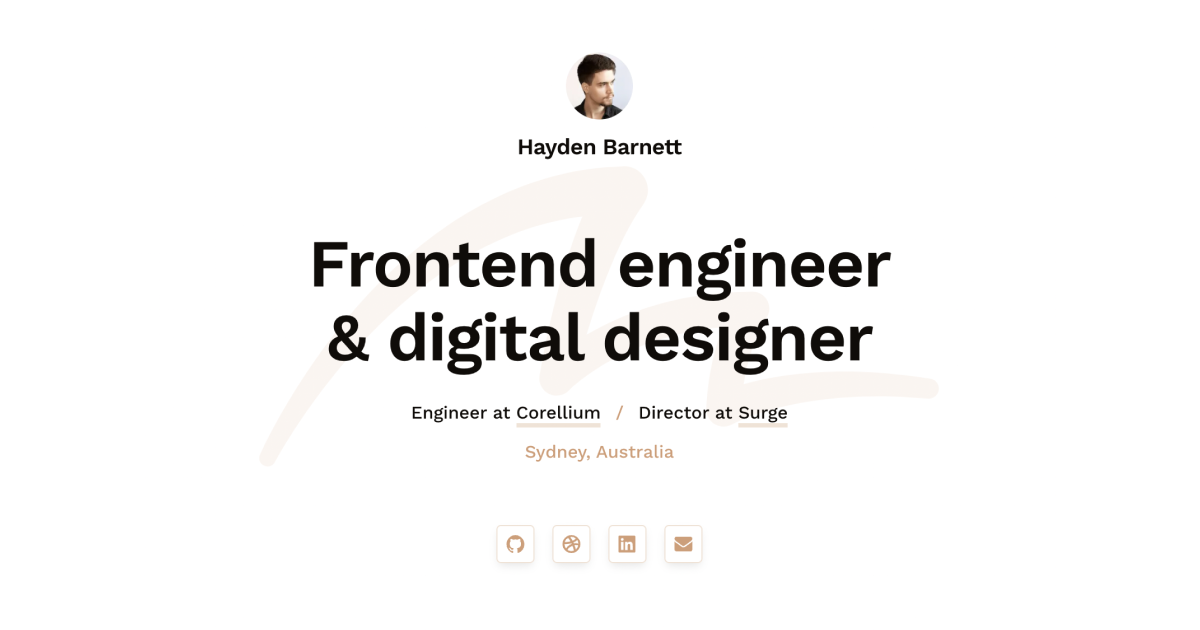
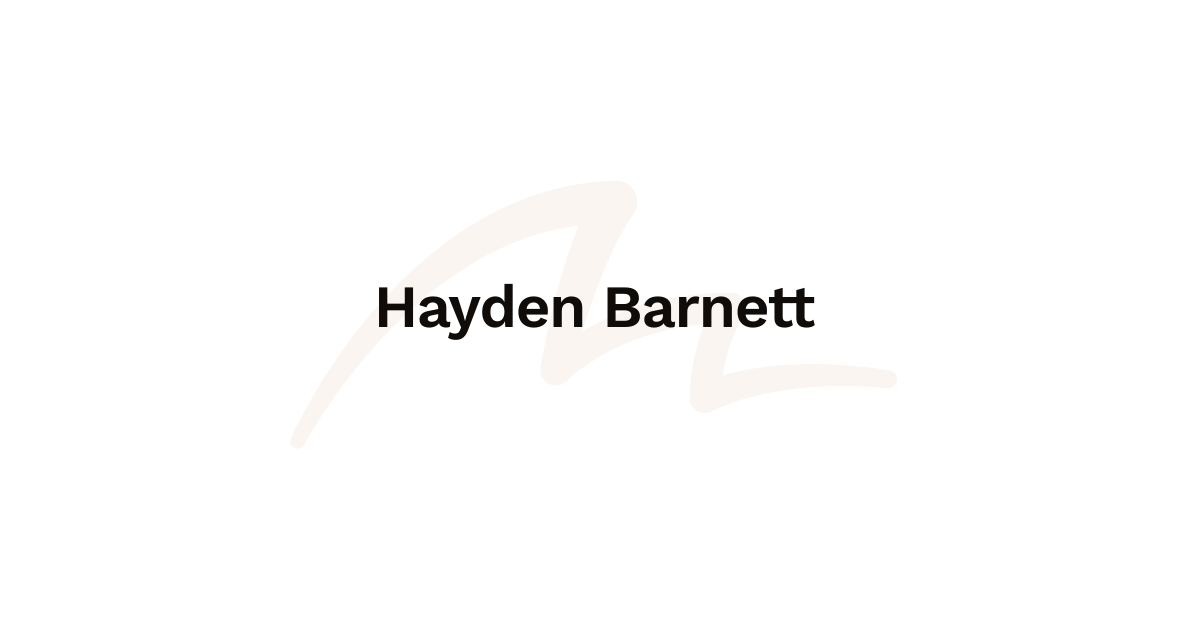
Remove Surge

diff --git a/components/Introduction/Introduction.tsx b/components/Introduction/Introduction.tsx
@@ -13,15 +13,6 @@ export const Introduction: FC = () => (
         rel="noreferrer"
       >
         Corellium
-      </a>{" "}
-      <span className={styles.divider}>/</span> Director at{" "}
-      <a
-        className={styles.link}
-        href="https://surge.studio/"
-        target="_blank"
-        rel="noreferrer"
-      >
-        Surge
       </a>
     </p>
     <p className={styles.location}>Sydney, Australia</p>

diff --git a/README.md b/README.md
@@ -2,5 +2,4 @@
 
 ### Frontend engineer & digital designer
 
-- Engineer at [Corellium](https://www.corellium.com/)
-- Director at [Surge](https://surge.studio/)
+Engineer at [Corellium](https://www.corellium.com/)
